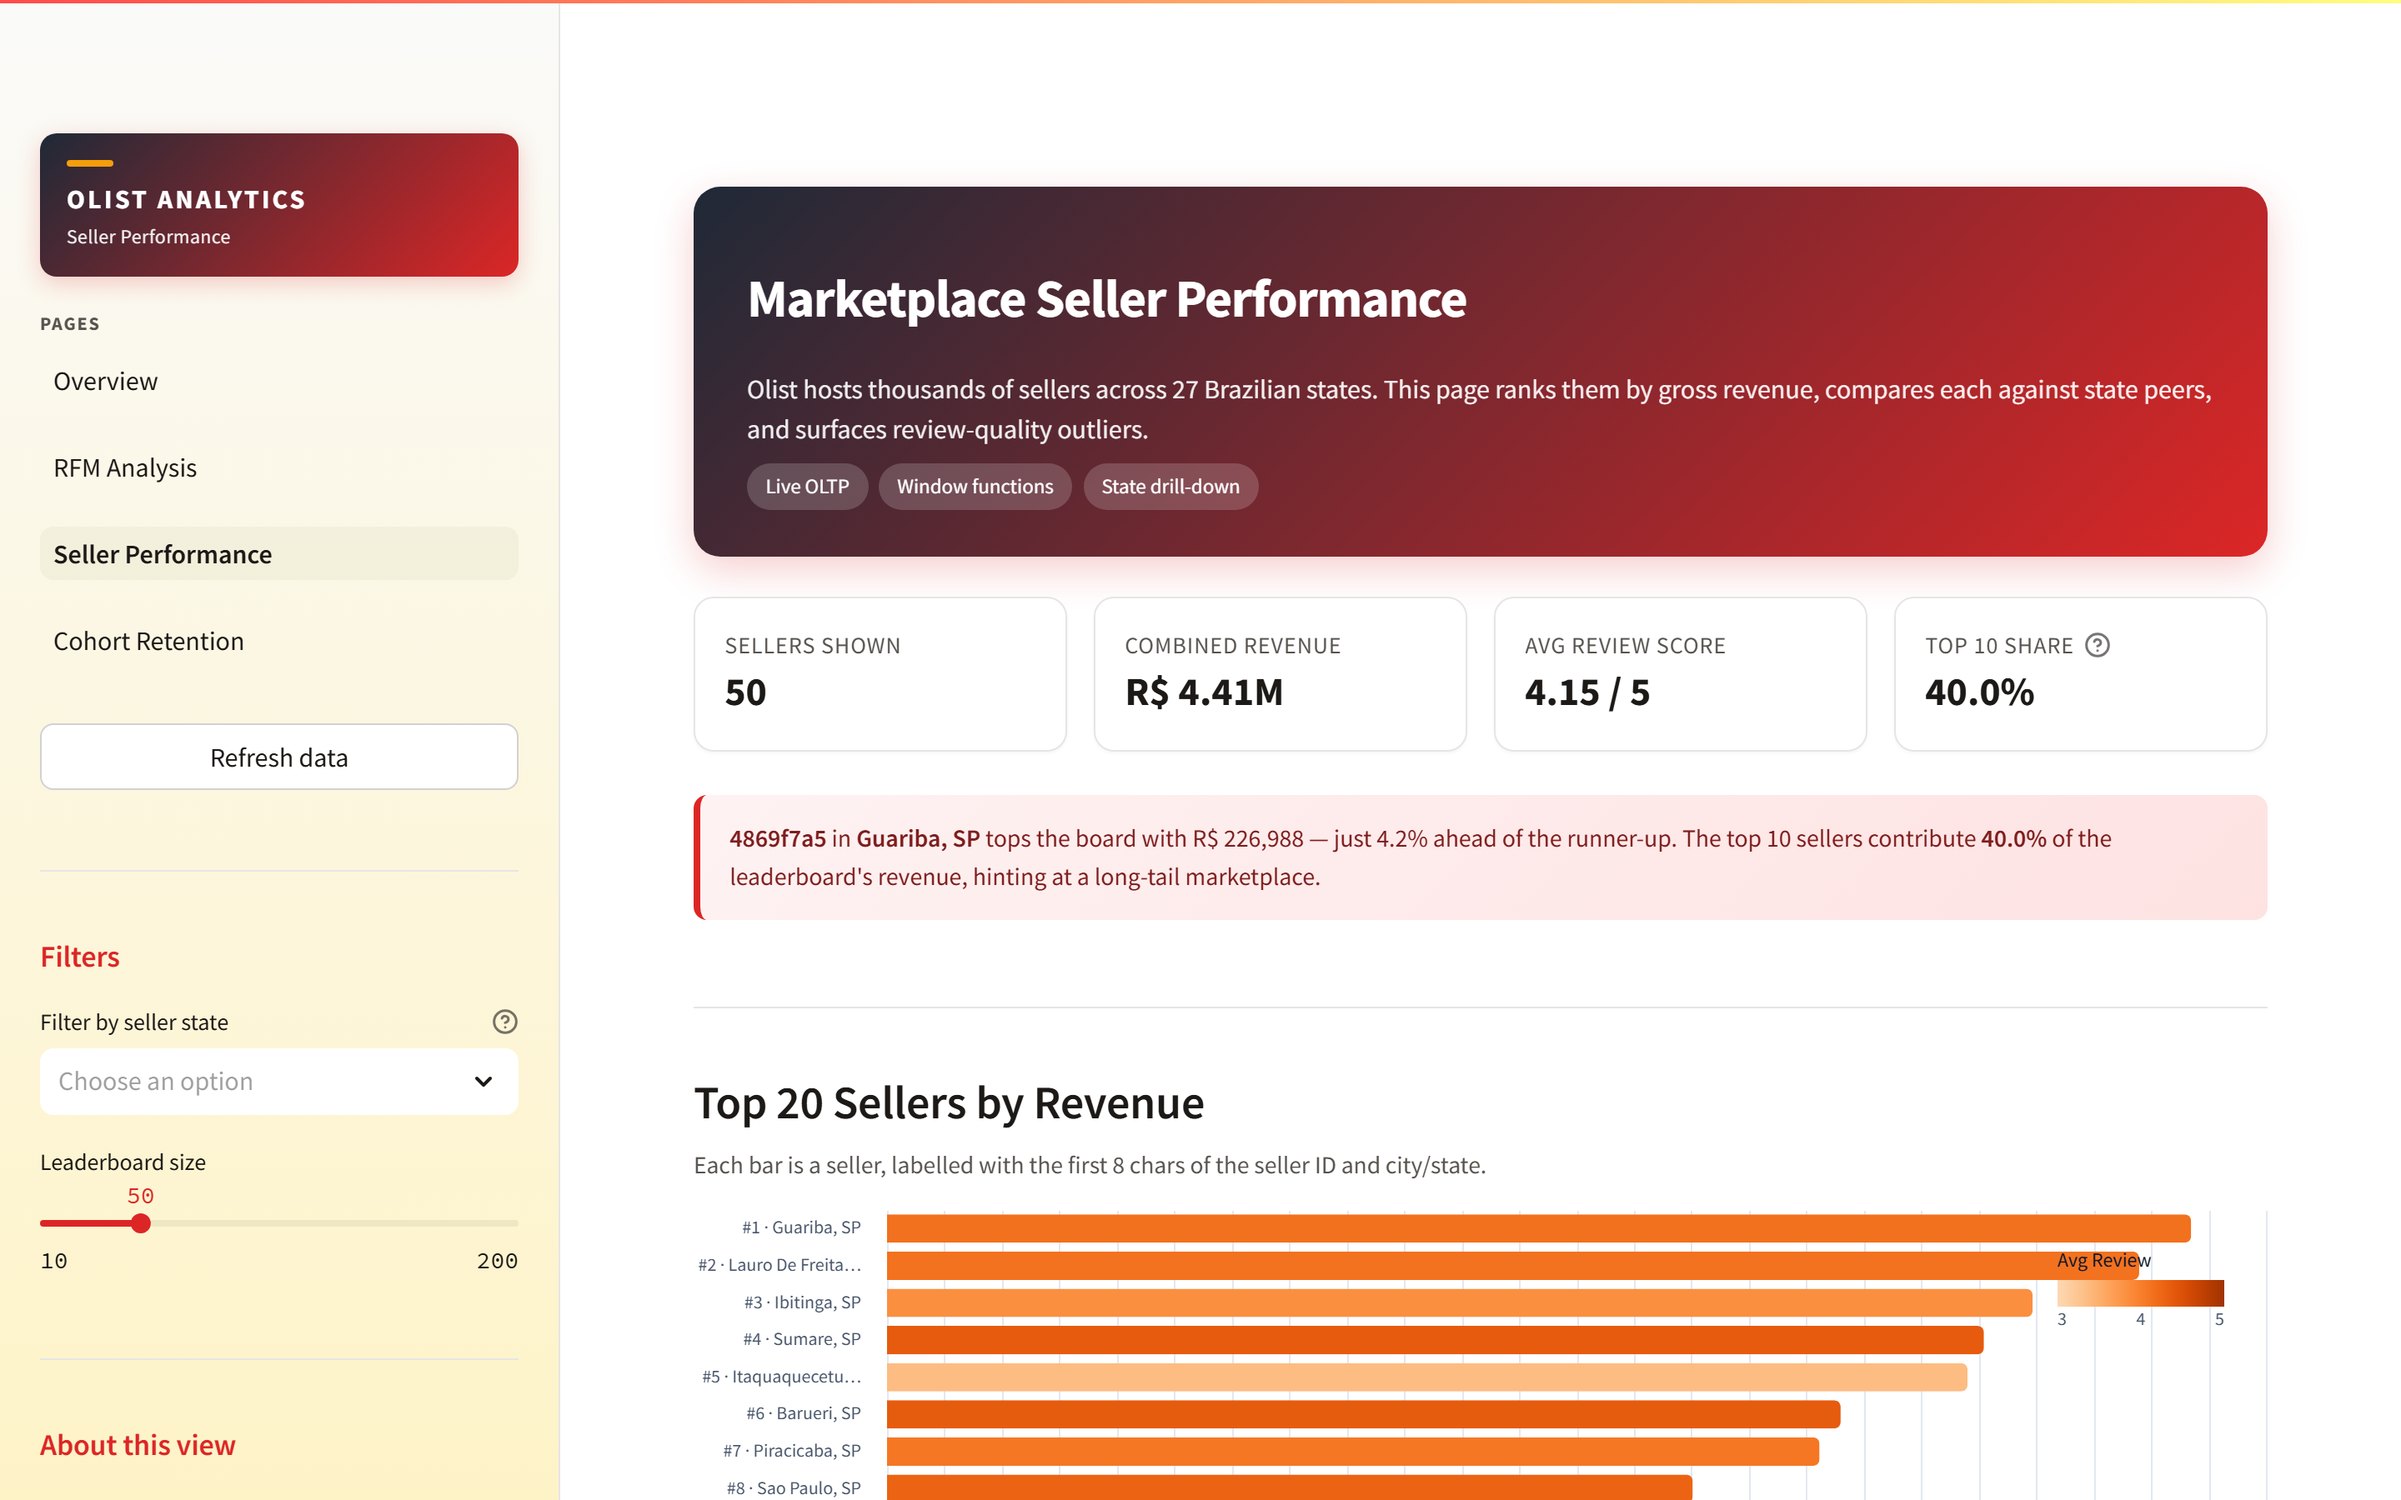
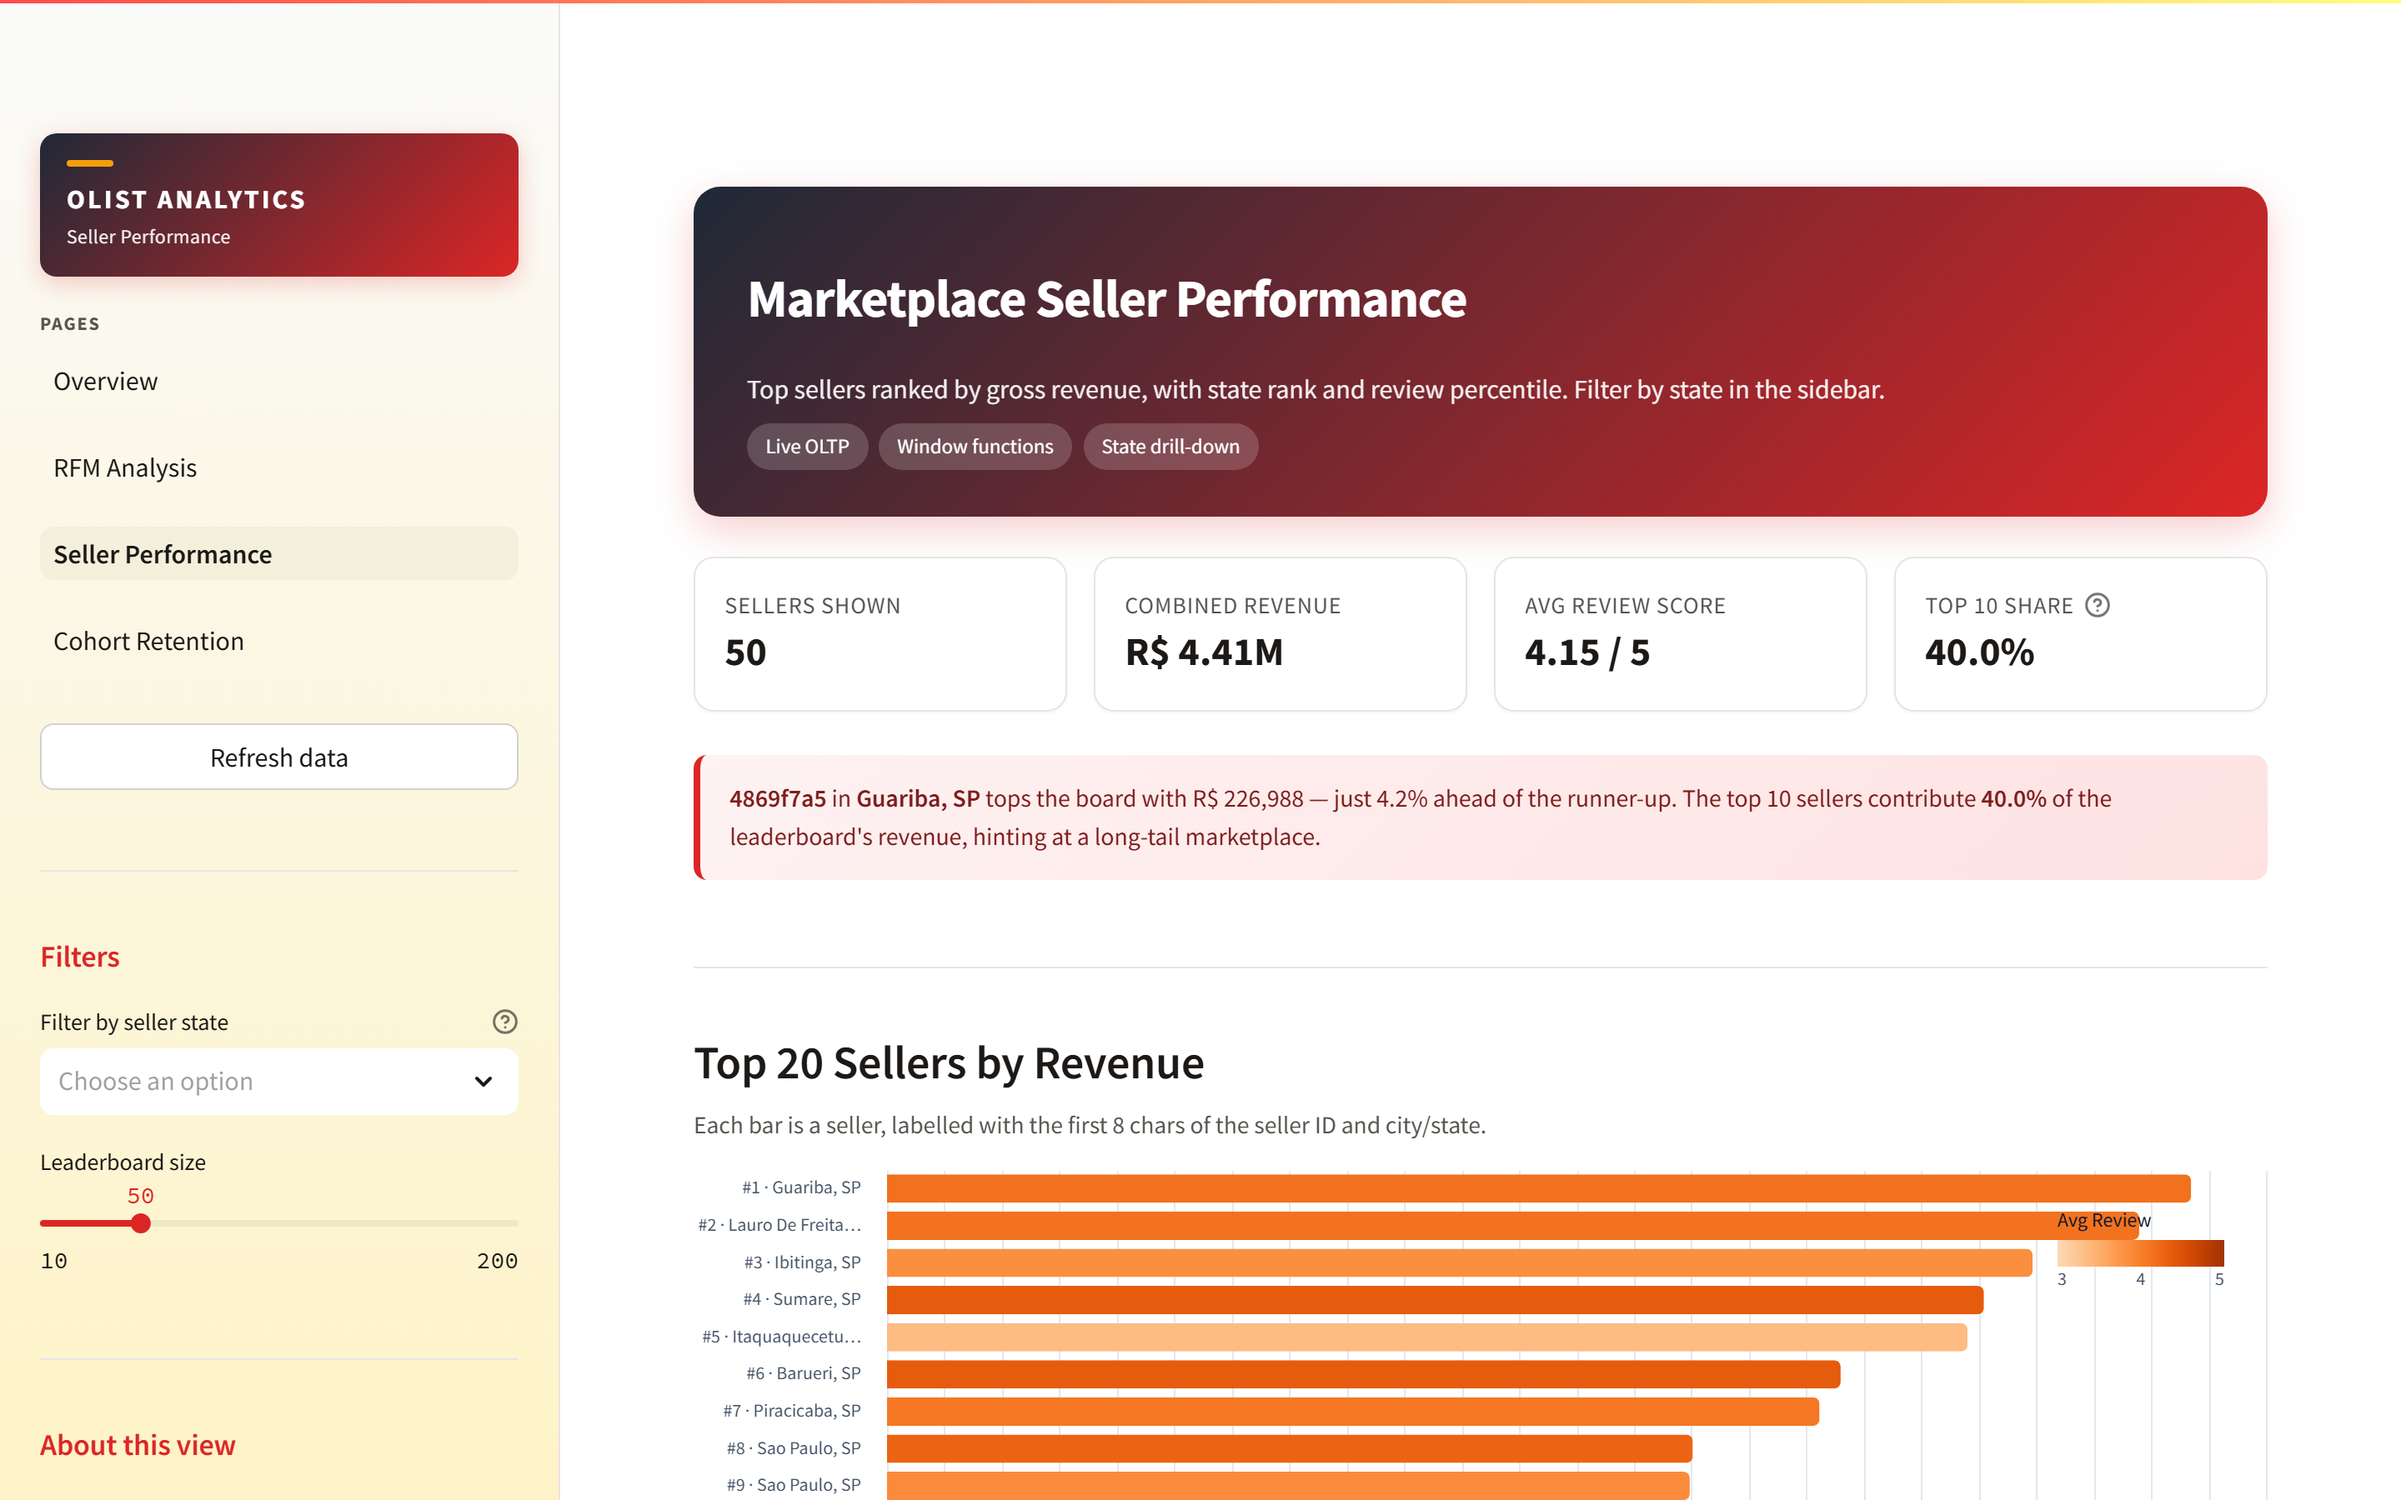
tighten copy across dashboard pages and remove dev screenshot script

Changed region(s): [[0.2812, 0.6844, 0.9375, 1.0], [0.2812, 0.2489, 0.9688, 0.4667], [0.2812, 0.4978, 0.9688, 0.6222]]

diff --git a/app/Overview.py b/app/Overview.py
@@ -160,9 +160,8 @@ with st.sidebar:
 
 hero(
     "Olist E-Commerce Analytics",
-    "Live BI dashboard over the Brazilian E-Commerce dataset by Olist. "
-    "Explore order trends, customer segmentation, seller performance, and cohort retention "
-    "across ~100k orders from 2016 to 2018.",
+    "Dashboard for the Olist Brazilian E-Commerce dataset (~100k orders, 2016–2018). "
+    "Pages cover order trends, RFM segmentation, seller performance, and cohort retention.",
     pills=[
         "Live Neon Postgres",
         "dbt Star Schema",
@@ -246,9 +245,8 @@ with left:
         points = base.mark_circle(size=55, color=PRIMARY).encode(y="revenue:Q")
         st.altair_chart((area + points).properties(height=340), use_container_width=True)
         note(
-            "Marketplace gross merchandise value grew steadily from launch in late 2016, "
-            f"settling near R$ 1M/month by mid-2018. The dataset cuts off in early September 2018, "
-            "so the final point can look artificially low."
+            "Revenue grew steadily from late 2016 and was running around R$ 1M/month by mid-2018. "
+            "The dataset ends on Sep 3, 2018, so the last point is just a partial month."
         )
 
 with right:
@@ -286,9 +284,8 @@ with right:
         delivered_share = float(statuses.loc[statuses["order_status"] == "delivered", "share"].sum() if (statuses["order_status"] == "delivered").any() else 0)
         canceled_share = float(statuses.loc[statuses["order_status"] == "canceled", "share"].sum() if (statuses["order_status"] == "canceled").any() else 0)
         note(
-            f"<strong>{delivered_share * 100:.1f}%</strong> of orders reach delivered status — typical for "
-            f"a mature marketplace. Cancellations are <strong>{canceled_share * 100:.1f}%</strong>, "
-            "the rest are in transit or pending review."
+            f"<strong>{delivered_share * 100:.1f}%</strong> of orders end up delivered. "
+            f"Cancellations are <strong>{canceled_share * 100:.1f}%</strong>; the rest are in transit or pending."
         )
 
 st.subheader("Top 10 Product Categories by Revenue")
@@ -324,9 +321,8 @@ else:
     )
     st.altair_chart(cat_chart + labels, use_container_width=True)
     note(
-        "Categories are translated from Portuguese (e.g. <code>cama_mesa_banho</code> = beds/baths, "
-        "<code>beleza_saude</code> = beauty/health). Olist's catalog is a long tail — "
-        "no single category dominates."
+        "Categories are in Portuguese (e.g. <code>cama_mesa_banho</code> = beds/baths, "
+        "<code>beleza_saude</code> = beauty/health). The catalog is broad: no single category dominates."
     )
 
     leader = top_cats.iloc[0]

diff --git a/app/pages/3_Cohort_Retention.py b/app/pages/3_Cohort_Retention.py
@@ -102,9 +102,8 @@ def fetch_cohorts(max_horizon: int) -> pd.DataFrame:
 
 hero(
     "Customer Cohort Retention",
-    "Each cohort is the set of customers who placed their first delivered order in a given month. "
-    "The heatmap shows the percentage of each cohort still active in subsequent months — "
-    "Olist is largely transactional, so first-purchase repeats are rare but the patterns are still informative.",
+    "Customers grouped by their first-delivered-order month. "
+    "Heatmap shows what share of each cohort comes back in later months.",
     pills=["Live OLTP", "LAG window function", "Variable horizon"],
 )
 
@@ -148,11 +147,10 @@ c4.metric(
 
 if best_m1_cohort is not None and best_m1 > 0:
     insight(
-        f"<strong>Month-1 repeat rate averages {avg_m1:.2f}%</strong> across cohorts of "
-        f"50+ customers — low, as expected for transactional commerce where most customers "
-        "buy a single item. The strongest comeback came from "
-        f"<strong>{pd.to_datetime(best_m1_cohort['cohort_month']):%b %Y}</strong> with "
-        f"{best_m1:.2f}% returning the next month."
+        f"Month-1 repeat rate averages <strong>{avg_m1:.2f}%</strong> across cohorts of 50+ customers. "
+        "Most Olist customers only buy once, so this is low across the board. "
+        f"Best month-1 came from <strong>{pd.to_datetime(best_m1_cohort['cohort_month']):%b %Y}</strong> "
+        f"at {best_m1:.2f}%."
     )
 
 st.divider()
@@ -221,9 +219,8 @@ text = (
 )
 st.altair_chart(heatmap + text, use_container_width=True)
 note(
-    "Retention drops sharply by month 1 (typically below 1%) and stays low — expected for "
-    "transactional commerce where most customers buy a single item. The empty bottom-right "
-    "triangle reflects newer cohorts that haven't had time to age a full horizon."
+    "Retention drops to under 1% by month 1 and stays there. Most Olist customers don't come back. "
+    "The empty bottom-right triangle is just newer cohorts that haven't had time to age yet."
 )
 
 col1, col2 = st.columns(2)

diff --git a/app/pages/1_RFM_Analysis.py b/app/pages/1_RFM_Analysis.py
@@ -121,8 +121,8 @@ with st.sidebar:
 
 hero(
     "Customer RFM Segmentation",
-    "Recency, Frequency, and Monetary value scoring identifies who to retain, who to win back, "
-    "and who deserves a thank-you campaign. Segments are computed live from delivered orders.",
+    "Groups customers by Recency, Frequency, and Monetary value (RFM). "
+    "Computed live from delivered orders.",
     pills=["Live OLTP query", "NTILE quartiles", "Adjustable thresholds"],
 )
 
@@ -163,9 +163,9 @@ if total_revenue and champ_count:
     pct_revenue = champ_revenue / total_revenue * 100
     multiple = pct_revenue / pct_customers if pct_customers else 0
     insight(
-        f"<strong>Champions are {pct_customers:.1f}% of customers</strong> but generate "
-        f"<strong>{pct_revenue:.1f}% of revenue</strong> — roughly {multiple:.1f}× their per-capita share. "
-        f"At Risk + Lost customers ({at_risk_count:,}) are the most addressable win-back pool."
+        f"Champions are <strong>{pct_customers:.1f}%</strong> of customers but bring in "
+        f"<strong>{pct_revenue:.1f}%</strong> of revenue (about {multiple:.1f}× their per-capita share). "
+        f"At Risk + Lost ({at_risk_count:,}) are the win-back targets."
     )
 
 st.divider()
@@ -240,9 +240,9 @@ with right:
     st.altair_chart(pie, use_container_width=True)
     if total_revenue and champ_count:
         note(
-            f"Champions punch well above their weight: <strong>{(champ_count / total_customers * 100):.1f}%</strong> "
-            f"of customers, <strong>{(champ_revenue / total_revenue * 100):.1f}%</strong> of revenue. "
-            "Losing one Champion is worth roughly losing several 'Others'."
+            f"Champions are <strong>{(champ_count / total_customers * 100):.1f}%</strong> of customers "
+            f"but make up <strong>{(champ_revenue / total_revenue * 100):.1f}%</strong> of revenue. "
+            "Losing one Champion costs the same as losing several 'Others'."
         )
 
 st.subheader("Segment Detail")

diff --git a/app/pages/2_Seller_Performance.py b/app/pages/2_Seller_Performance.py
@@ -157,8 +157,8 @@ with st.sidebar:
 
 hero(
     "Marketplace Seller Performance",
-    "Olist hosts thousands of sellers across 27 Brazilian states. This page ranks them by gross revenue, "
-    "compares each against state peers, and surfaces review-quality outliers.",
+    "Top sellers ranked by gross revenue, with state rank and review percentile. "
+    "Filter by state in the sidebar.",
     pills=["Live OLTP", "Window functions", "State drill-down"],
 )
 
@@ -250,9 +250,8 @@ top_chart = (
 )
 st.altair_chart(top_chart, use_container_width=True)
 note(
-    "Color encodes the seller's average review score (1–5). Watch for high-revenue bars "
-    "in lighter shades — those sellers are moving volume despite mediocre reviews and "
-    "are quality-risk outliers worth investigating."
+    "Color is the seller's average review score (1–5). Lighter bars at high revenue mean "
+    "the seller is doing volume despite low reviews. Worth a closer look."
 )
 
 st.subheader("Revenue by Seller State")

diff --git a/app/style.py b/app/style.py
@@ -331,7 +331,7 @@ def caption(text: str) -> None:
     st.markdown(f'<p class="section-caption">{text}</p>', unsafe_allow_html=True)
 
 
-def note(text: str, label: str = "What this means") -> None:
+def note(text: str, label: str = "Note") -> None:
     """Interpretation note shown directly below a chart."""
     st.markdown(
         f'<div class="data-note"><span class="label">{label}</span>{text}</div>',

diff --git a/README.md b/README.md
@@ -393,7 +393,7 @@ This Phase 2 repository builds directly on our Phase 1 work. The OLTP schema, in
 
 # Olist PostgreSQL Database Project (Phase 3)
 
-**Application Layer — Streamlit BI Dashboard on Neon, deployed to Render**
+**Application Layer: Streamlit BI Dashboard on Neon, deployed to Render**
 
 Phase 3 turns the analytics layer from Phase 2 into a user-facing BI dashboard. The app is a multi-page Streamlit application that connects directly to the Neon Postgres database, queries the dbt mart layer (`fact_order_items` + `dim_*`) and the OLTP tables, and renders interactive visualizations. It is wired for continuous deployment to Render through `render.yaml`.
 
@@ -457,7 +457,7 @@ flowchart LR
 
 ![Cohort retention](docs/screenshots/cohort_retention.png)
 
-> Screenshots live in [`docs/screenshots/`](docs/screenshots/). Run `python scripts/capture_screenshots.py` (with the app on `:8765`) to regenerate them.
+> Screenshots live in [`docs/screenshots/`](docs/screenshots/).
 
 ## Code Layout
 
@@ -479,9 +479,9 @@ render.yaml                   # Render Blueprint for continuous deploy
 
 All database access goes through `app/db.py`:
 
-* `@st.cache_resource` on the SQLAlchemy engine — one shared connection pool per app process
-* `pool_size=2`, `max_overflow=3`, `pool_recycle=300`, `pool_pre_ping=True` — same Neon-friendly tuning as the ingest script, so idle connections drop and Neon compute can pause
-* `@st.cache_data(ttl=600)` on every query function — re-using the dashboard for 10 minutes never re-hits Neon
+* `@st.cache_resource` on the SQLAlchemy engine. One shared connection pool per app process.
+* `pool_size=2`, `max_overflow=3`, `pool_recycle=300`, `pool_pre_ping=True`. Same Neon-friendly tuning as the ingest script so idle connections drop and Neon compute can pause.
+* `@st.cache_data(ttl=600)` on every query function. Re-using the dashboard for 10 minutes never re-hits Neon.
 
 A typical demo session issues only a handful of unique queries even with heavy widget interaction.
 
@@ -529,7 +529,7 @@ The app opens at `http://localhost:8501`. Use the sidebar to navigate between Ov
 python app/test_app.py
 ```
 
-This executes every page headlessly against the live database and fails on any uncaught exception — useful before opening a PR.
+Runs every page headlessly against the live database. Fails on any uncaught exception. Useful before opening a PR.
 
 ## Cloud Deployment to Render
 
